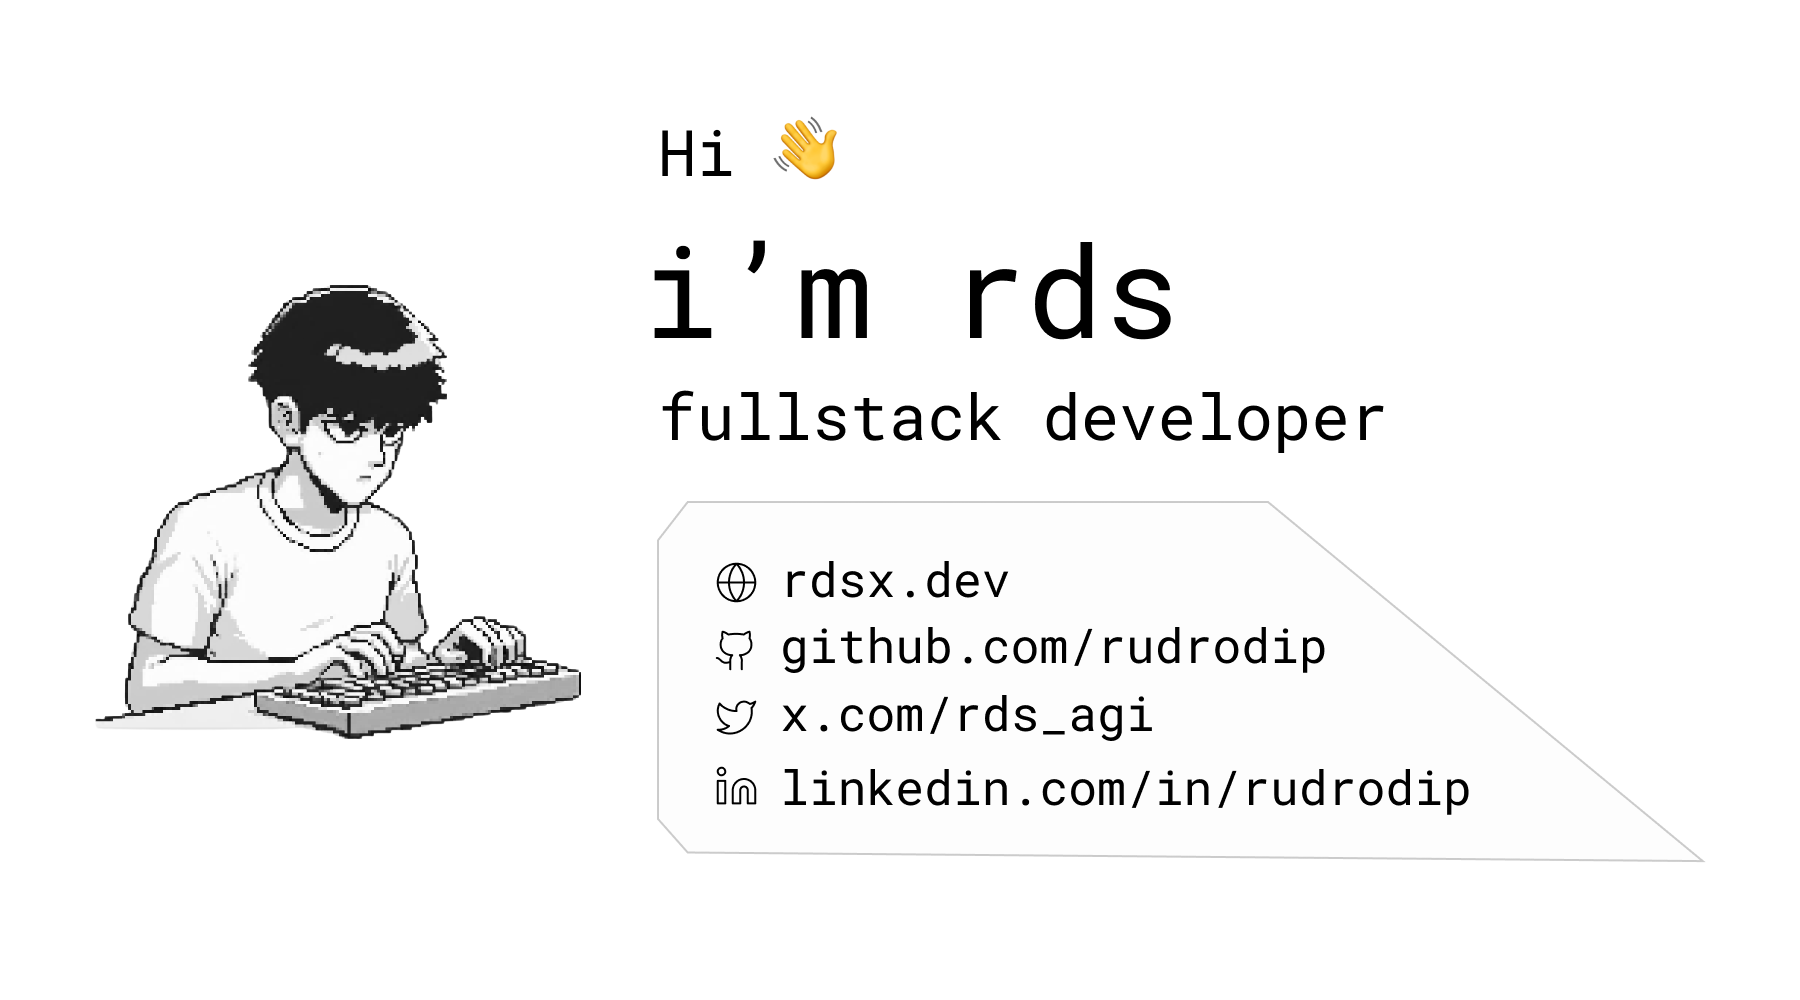
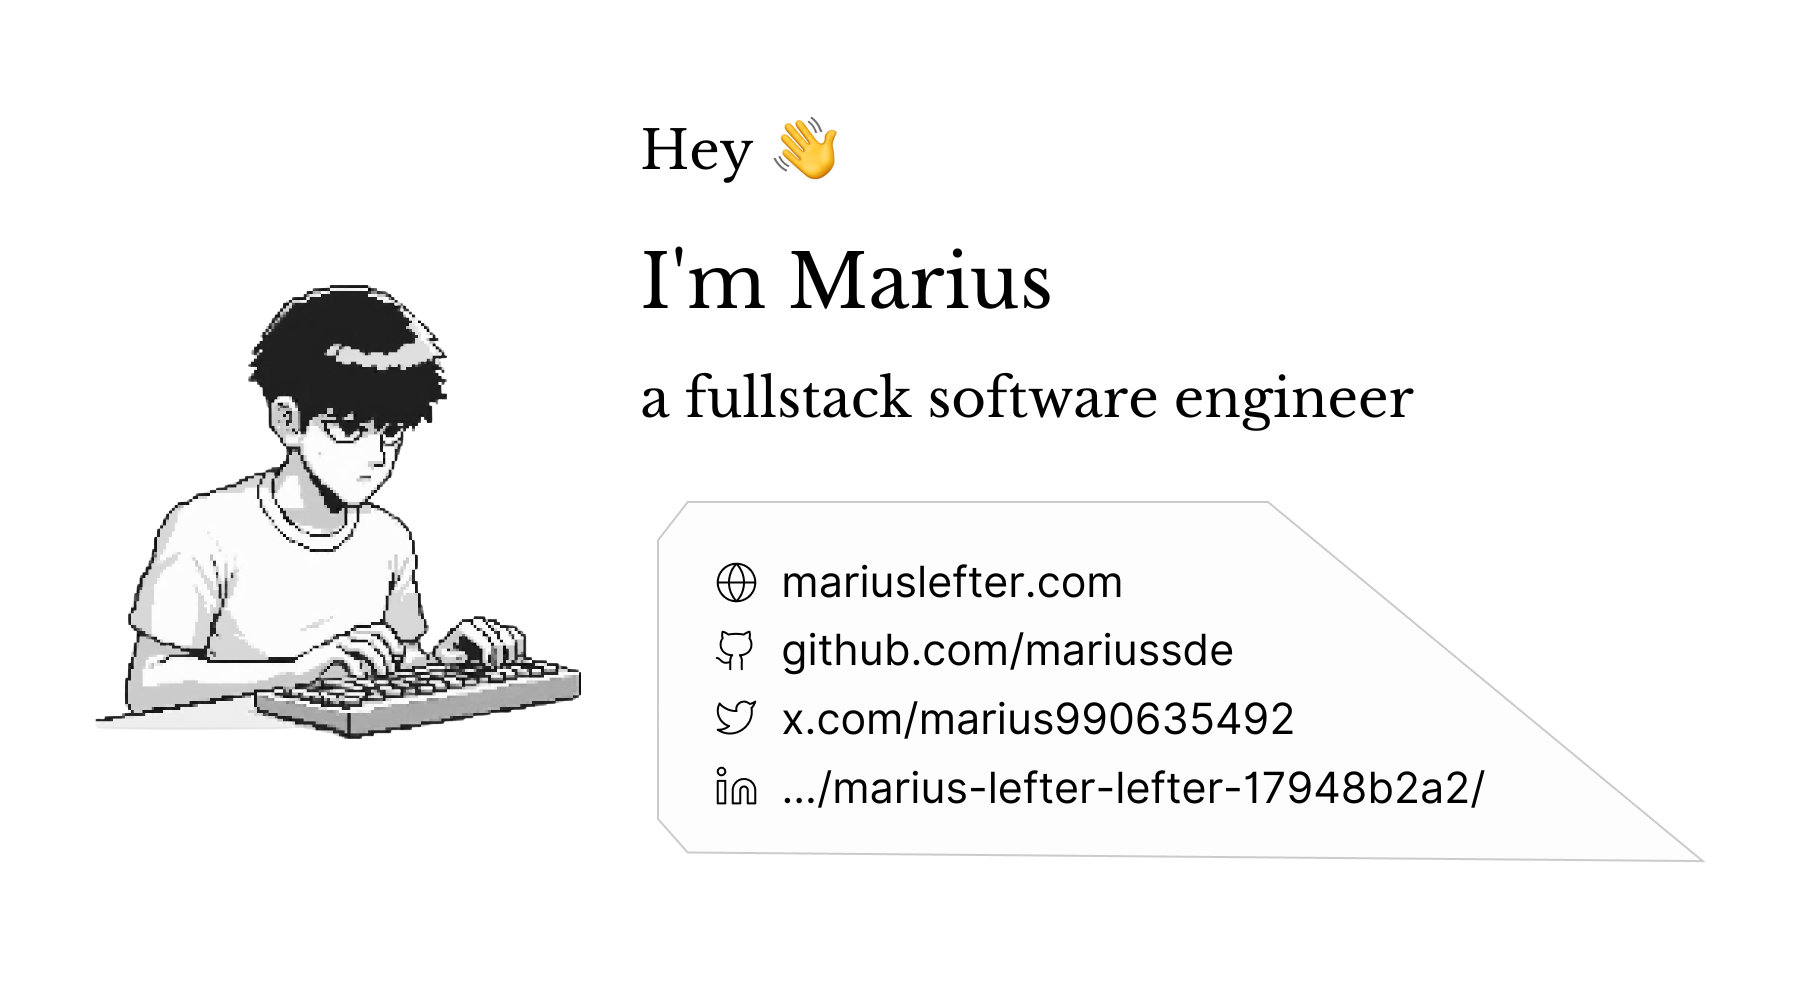
imágenes actualizadas

diff --git a/src/app/(landing)/til/page.tsx b/src/app/(landing)/til/page.tsx
@@ -14,7 +14,7 @@ export const metadata: Metadata = {
     url: `${siteConfig.siteUrl}/til`,
     images: [
       {
-        url: `${siteConfig.siteUrl}/til-og.png`,
+        url: `${siteConfig.siteUrl}/og.png`,
         width: 1800,
         height: 1000,
         alt: `Today I learned | ${siteConfig.name} | ${siteConfig.creator.name}`,
@@ -27,7 +27,7 @@ export const metadata: Metadata = {
     title: `Today I learned | ${siteConfig.name} | ${siteConfig.creator.name}`,
     description: `A list of things I learned today | Hey, I'm ${siteConfig.creator.name} and this is a journal of things I learned. I keep it as a reminder of the things I've learned and to share it with others.`,
     images: {
-      url: `${siteConfig.siteUrl}/til-og.png`,
+      url: `${siteConfig.siteUrl}/og.png`,
       width: 1800,
       height: 1000,
       alt: `Today I learned | ${siteConfig.name} | ${siteConfig.creator.name}`,

diff --git a/src/app/blogs/layout.tsx b/src/app/blogs/layout.tsx
@@ -16,7 +16,7 @@ export const metadata: Metadata = {
     siteName: siteConfig.name,
     images: [
       {
-        url: `${siteConfig.siteUrl}/blog-og.png`,
+        url: `${siteConfig.siteUrl}/og.png`,
         width: 1800,
         height: 1000,
         alt: siteConfig.name,
@@ -34,7 +34,7 @@ export const metadata: Metadata = {
     description:
       "Blogs | mariuslfter.com | Hey Marius here! I am a software engineer. I build web apps, mobile applications, backend servers, ML solutions and much more!",
     images: {
-      url: `${siteConfig.siteUrl}/blog-og.png`,
+      url: `${siteConfig.siteUrl}/og.png`,
       width: 1800,
       height: 1000,
       alt: `Blogs | ${siteConfig.name}`,

diff --git a/src/app/(landing)/experience/page.tsx b/src/app/(landing)/experience/page.tsx
@@ -19,7 +19,7 @@ export async function generateMetadata(): Promise<Metadata> {
     ...experiencesConfig.map((exp) => exp.company.name),
   ];
   const title = `Experience | ${siteConfig.creator.name} | ${siteConfig.name}`;
-  const og = `${siteConfig.siteUrl}/experience-og.png`;
+  const og = `${siteConfig.siteUrl}/og.png`;
 
   return {
     title,

diff --git a/src/config/site.config.ts b/src/config/site.config.ts
@@ -26,7 +26,7 @@ export const siteConfig: Site = {
     name: "Marius Lefter",
     url: "https://mariuslefter.com",
   },
-  ogImage: "https://rdsx.dev/og.png",
+  ogImage: "https://mariuslefter.com/og.png",
   links: {
     x: "https://x.com/Marius990635491",
     github: "https://github.com/mariussde",
